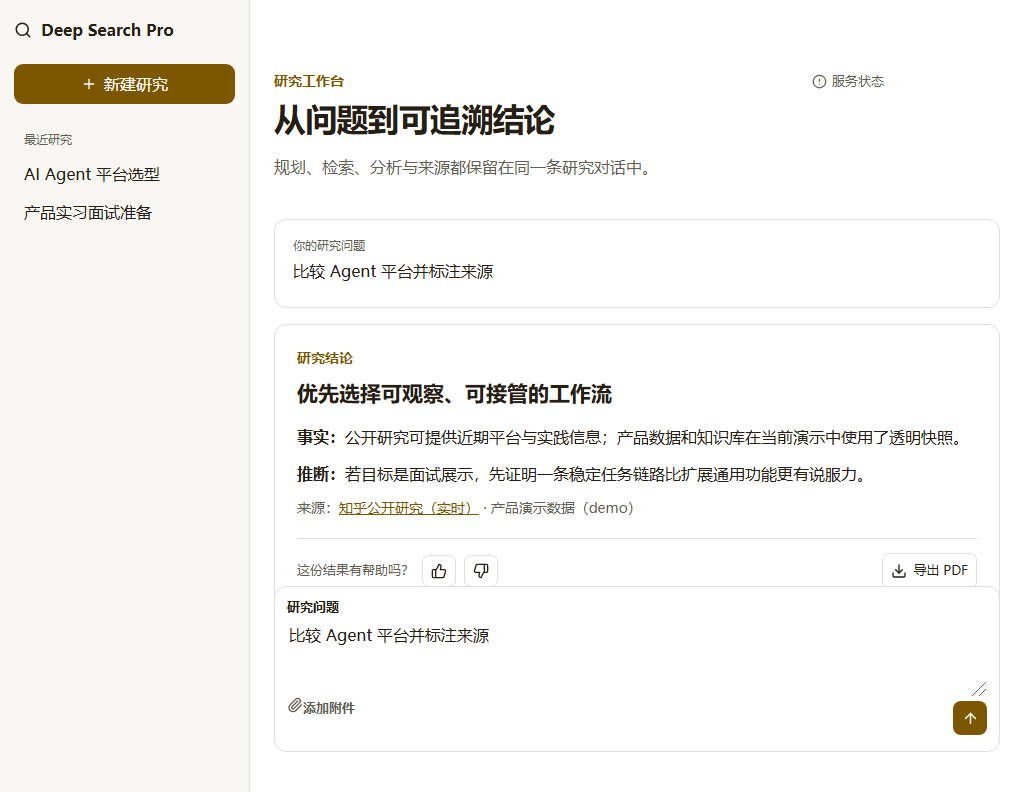
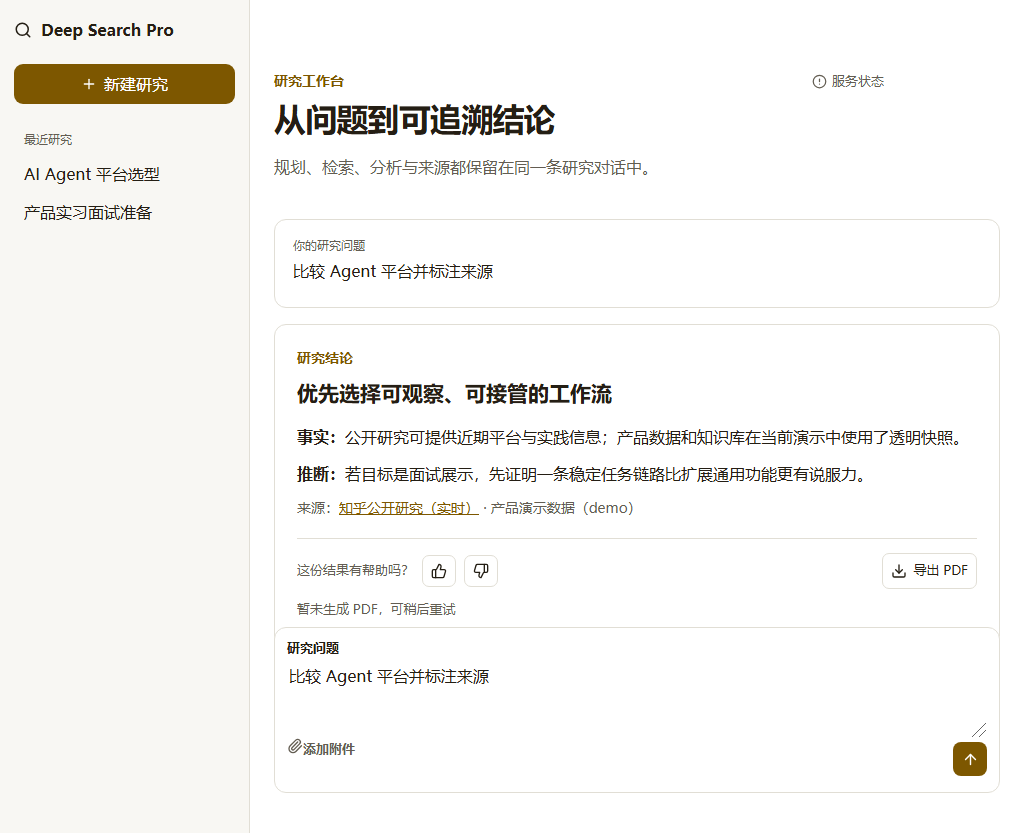
feat: close feedback export and offline e2e flows

diff --git a/frontend/src/App.tsx b/frontend/src/App.tsx
@@ -58,7 +58,7 @@ export default function App() {
     <section className="conversation" aria-labelledby="page-title">
       <header><div className="title-row"><span className="eyebrow">研究工作台</span><ServiceStatusMenu /></div><h1 id="page-title">从问题到可追溯结论</h1><p>规划、检索、分析与来源都保留在同一条研究对话中。</p></header>
       {error && <p className="inline-error" role="alert">{error}</p>}
-      {submitted ? <><article className="message user-message"><span>你的研究问题</span><p>{submitted}</p></article>{completed || taskState === "succeeded" ? <ReportMessage result={taskResult} /> : confirmed || taskState === "running" ? <AgentRunMessage onComplete={() => setCompleted(true)} /> : <PlanMessage onConfirm={confirm} onCancel={() => setSubmitted(null)} />}</> : <section className="empty-state"><FileText size={28} /><h2>开始一项复杂研究</h2><p>说明目标、限制条件和你希望得到的输出。</p><div className="starters">{STARTERS.map((starter) => <button key={starter} type="button" onClick={() => setQuery(starter)}>{starter}</button>)}</div></section>}
+      {submitted ? <><article className="message user-message"><span>你的研究问题</span><p>{submitted}</p></article>{(completed || taskState === "succeeded") && threadId ? <ReportMessage result={taskResult} threadId={threadId} /> : confirmed || taskState === "running" ? <AgentRunMessage onComplete={() => setCompleted(true)} /> : <PlanMessage onConfirm={confirm} onCancel={() => setSubmitted(null)} />}</> : <section className="empty-state"><FileText size={28} /><h2>开始一项复杂研究</h2><p>说明目标、限制条件和你希望得到的输出。</p><div className="starters">{STARTERS.map((starter) => <button key={starter} type="button" onClick={() => setQuery(starter)}>{starter}</button>)}</div></section>}
       <form className="composer" onSubmit={submit}><label htmlFor="research-query">研究问题</label><textarea id="research-query" value={query} onChange={(event) => setQuery(event.target.value)} placeholder="例如：比较适合个人研究工作流的 AI Agent 平台，并说明取舍。" rows={3} />{attachment && <span className="attachment-name">已选择：{attachment.name}</span>}<div><label className="attach-button" title="添加附件"><Paperclip size={16} /><span>添加附件</span><input type="file" accept=".txt,.md,.pdf,.docx,.csv,.xlsx" onChange={(event) => setAttachment(event.target.files?.[0] ?? null)} /></label><button type="submit" aria-label="提交研究" disabled={!query.trim()}><ArrowUp size={17} /></button></div></form>
     </section>
   </main>;

diff --git a/frontend/src/components/ReportMessage.tsx b/frontend/src/components/ReportMessage.tsx
@@ -1,10 +1,39 @@
 import { Download, ThumbsDown, ThumbsUp } from "lucide-react";
+import { useState } from "react";
+import { api } from "../api/client";
 
-export function ReportMessage({ result }: { result?: string | null }) {
+export function ReportMessage({ result, threadId }: { result?: string | null; threadId: string }) {
+  const [notice, setNotice] = useState<string | null>(null);
+
+  const sendFeedback = async (helpful: boolean) => {
+    try {
+      await api.feedback(threadId, helpful, helpful ? "结果有帮助" : "需要改进");
+      setNotice("反馈已记录");
+    } catch {
+      setNotice("反馈提交失败，请重试");
+    }
+  };
+
+  const exportPdf = async () => {
+    try {
+      const response = await api.files(threadId);
+      const pdf = response.files.find((file) => file.name.toLowerCase().endsWith(".pdf"));
+      if (!pdf) {
+        setNotice("暂未生成 PDF，可稍后重试");
+        return;
+      }
+      await api.recordExport(threadId);
+      window.location.assign(api.downloadUrl(pdf.path));
+    } catch {
+      setNotice("导出失败，请重试");
+    }
+  };
+
   return <article className="report-message" aria-label="研究报告">
     <span className="eyebrow">研究结论</span><h2>优先选择可观察、可接管的工作流</h2>
     {result ? <p className="report-content">{result}</p> : <><p><strong>事实：</strong>公开研究可提供近期平台与实践信息；产品数据和知识库在当前演示中使用了透明快照。</p><p><strong>推断：</strong>若目标是面试展示，先证明一条稳定任务链路比扩展通用功能更有说服力。</p></>}
     <p className="citations">来源：<a href="https://www.zhihu.com" target="_blank" rel="noreferrer">知乎公开研究（实时）</a> · 产品演示数据（demo）</p>
-    <footer><span>这份结果有帮助吗？</span><button type="button" aria-label="有帮助"><ThumbsUp size={16} /></button><button type="button" aria-label="需要改进"><ThumbsDown size={16} /></button><button type="button" className="export"><Download size={16} /> 导出 PDF</button></footer>
+    <footer><span>这份结果有帮助吗？</span><button type="button" aria-label="有帮助" onClick={() => sendFeedback(true)}><ThumbsUp size={16} /></button><button type="button" aria-label="需要改进" onClick={() => sendFeedback(false)}><ThumbsDown size={16} /></button><button type="button" className="export" onClick={exportPdf}><Download size={16} /> 导出 PDF</button></footer>
+    {notice && <p className="report-notice" role="status">{notice}</p>}
   </article>;
 }

diff --git a/frontend/e2e/demo-flow.spec.ts b/frontend/e2e/demo-flow.spec.ts
@@ -5,6 +5,8 @@ test("research flow reaches a sourced report", async ({ page }) => {
     const path = new URL(route.request().url()).pathname;
     if (!path.startsWith("/api/")) return route.continue();
     if (path === "/api/task") return route.fulfill({ json: { status: "waiting_confirmation", thread_id: "test-e2e" } });
+    if (path === "/api/files") return route.fulfill({ json: { files: [] } });
+    if (path.endsWith("/feedback") || path.endsWith("/export")) return route.fulfill({ json: { status: "recorded" } });
     if (path.endsWith("/confirm")) return route.fulfill({ json: { status: "running", thread_id: "test-e2e" } });
     return route.fulfill({ json: { thread_id: "test-e2e", state: "running", sequence: 1, result: null, error: null, events: [] } });
   });
@@ -17,6 +19,10 @@ test("research flow reaches a sourced report", async ({ page }) => {
   await expect(page.getByText("演示来源").first()).toBeVisible();
   await page.getByText("查看模拟报告").click();
   await expect(page.getByText("优先选择可观察、可接管的工作流")).toBeVisible();
+  await page.getByLabel("有帮助").click();
+  await expect(page.getByText("反馈已记录")).toBeVisible();
+  await page.getByText("导出 PDF").click();
+  await expect(page.getByText("暂未生成 PDF，可稍后重试")).toBeVisible();
   for (const [width, height] of [[1024, 768], [1440, 900], [1920, 1080]] as const) {
     await page.setViewportSize({ width, height });
     await page.screenshot({ path: `../docs/interview/assets/report-${width}x${height}.png`, fullPage: true });

diff --git a/frontend/src/App.test.tsx b/frontend/src/App.test.tsx
@@ -2,7 +2,15 @@ import { fireEvent, render, screen } from "@testing-library/react";
 import { expect, test, vi } from "vitest";
 import App from "./App";
 
-vi.mock("./api/client", () => ({ api: { createTask: vi.fn().mockResolvedValue({ thread_id: "test-1" }), upload: vi.fn().mockResolvedValue({ files: [] }), confirm: vi.fn().mockResolvedValue({}) } }));
+vi.mock("./api/client", () => ({ api: {
+  createTask: vi.fn().mockResolvedValue({ thread_id: "test-1" }),
+  upload: vi.fn().mockResolvedValue({ files: [] }),
+  confirm: vi.fn().mockResolvedValue({}),
+  feedback: vi.fn().mockResolvedValue({ status: "recorded" }),
+  files: vi.fn().mockResolvedValue({ files: [] }),
+  recordExport: vi.fn().mockResolvedValue({ status: "recorded" }),
+  downloadUrl: vi.fn().mockReturnValue("/api/download?path=report.pdf"),
+} }));
 
 test("renders product name and submits a research question", async () => {
   render(<App />);
@@ -17,4 +25,8 @@ test("renders product name and submits a research question", async () => {
   expect(screen.getAllByText("演示来源")).toHaveLength(2);
   fireEvent.click(screen.getByText("查看模拟报告"));
   expect(screen.getByText("优先选择可观察、可接管的工作流")).toBeInTheDocument();
+  fireEvent.click(screen.getByLabelText("有帮助"));
+  expect(await screen.findByText("反馈已记录")).toBeInTheDocument();
+  fireEvent.click(screen.getByText("导出 PDF"));
+  expect(await screen.findByText("暂未生成 PDF，可稍后重试")).toBeInTheDocument();
 });

diff --git a/frontend/src/api/client.ts b/frontend/src/api/client.ts
@@ -20,4 +20,8 @@ export const api = {
   },
   confirm: (threadId: string) => request(`/api/tasks/${threadId}/confirm`, { method: "POST" }),
   cancel: (threadId: string) => request(`/api/tasks/${threadId}/cancel`, { method: "POST" }),
+  feedback: (threadId: string, helpful: boolean, reason?: string) => request(`/api/tasks/${threadId}/feedback`, { method: "POST", headers: { "Content-Type": "application/json" }, body: JSON.stringify({ helpful, reason }) }),
+  recordExport: (threadId: string) => request(`/api/tasks/${threadId}/export`, { method: "POST" }),
+  files: (threadId: string) => request<{ files: Array<{ name: string; path: string }> }>(`/api/files?path=${encodeURIComponent(`session_${threadId}`)}`),
+  downloadUrl: (path: string) => `${API_BASE}/api/download?path=${encodeURIComponent(path)}`,
 };

diff --git a/frontend/src/styles.css b/frontend/src/styles.css
@@ -9,3 +9,4 @@
 .inline-error { margin-top:20px; border:1px solid oklch(0.72 0.12 25); border-radius:9px; background:oklch(0.97 0.025 25); color:oklch(0.38 0.14 25); padding:11px 13px; }
 .attach-button { min-height:36px; display:flex; align-items:center; gap:6px; cursor:pointer; color:var(--muted); }.attach-button input { position:absolute; width:1px; height:1px; overflow:hidden; clip:rect(0 0 0 0); }.attachment-name { display:block; margin:4px 0 8px; color:var(--muted); font-size:12px; }
 .report-content { white-space:pre-wrap; overflow-wrap:anywhere; }
+.report-notice { color:var(--muted); font-size:13px; margin:8px 0 0; }

diff --git a/api/server.py b/api/server.py
@@ -10,6 +10,9 @@ from typing import List
 import shutil
 import json
 from datetime import datetime, timezone
+from contextlib import asynccontextmanager
+
+from analytics.events import ProductEvent, append_event
 
 # Add project root to sys.path
 current_dir = Path(__file__).resolve().parent
@@ -23,7 +26,18 @@ from api.health import get_service_registry
 from api.settings import get_settings
 from api.task_manager import TaskState, task_manager
 
-app = FastAPI(title="DeepAgents API")
+async def _broadcast_task_event(event: dict) -> None:
+    await manager.send_to_thread(event, event["thread_id"])
+
+
+@asynccontextmanager
+async def lifespan(_: FastAPI):
+    manager.set_loop(asyncio.get_running_loop())
+    task_manager.subscribe(_broadcast_task_event)
+    yield
+
+
+app = FastAPI(title="DeepAgents API", lifespan=lifespan)
 
 
 @app.get("/api/health")
@@ -56,18 +70,6 @@ class FeedbackRequest(BaseModel):
     helpful: bool
     reason: str | None = None
 
-@app.on_event("startup")
-async def startup_event():
-    """
-    服务启动时，获取当前运行的事件循环，并绑定到 WebSocket 管理器。
-    确保后台线程能通过 run_coroutine_threadsafe 准确投递消息。
-    """
-    loop = asyncio.get_running_loop()
-    manager.set_loop(loop)
-    task_manager.subscribe(lambda event: manager.send_to_thread(event, event["thread_id"]))
-    print(f"[Server] WebSocket Manager bound to loop: {id(loop)}")
-
-
 @app.post("/api/task")
 async def run_task(request: TaskRequest):
     # 1. [ID 初始化]
@@ -78,6 +80,8 @@ async def run_task(request: TaskRequest):
         await task_manager.transition(thread_id, TaskState.WAITING_CONFIRMATION, {"plan": ["确认研究目标", "检索并汇总来源"]})
     except ValueError as error:
         raise HTTPException(status_code=409, detail=str(error)) from error
+
+    _record_product_event("task_submitted", thread_id)
 
     # 3. [立即响应]
     return {"status": "waiting_confirmation", "thread_id": thread_id}
@@ -100,6 +104,7 @@ async def confirm_task(thread_id: str):
     except ValueError as error:
         raise HTTPException(status_code=409, detail=str(error)) from error
     task.background_task = asyncio.create_task(run_deep_agent(task.query, thread_id))
+    _record_product_event("plan_confirmed", thread_id)
     return {"status": task.state, "thread_id": thread_id}
 
 
@@ -129,7 +134,25 @@ async def submit_feedback(thread_id: str, feedback: FeedbackRequest):
     feedback_path = output_dir / "feedback.jsonl"
     with feedback_path.open("a", encoding="utf-8") as file:
         file.write(json.dumps(record, ensure_ascii=False) + "\n")
+    _record_product_event("feedback_submitted", thread_id)
     return {"status": "recorded"}
+
+
+@app.post("/api/tasks/{thread_id}/export")
+async def record_export(thread_id: str):
+    try:
+        await task_manager.snapshot(thread_id)
+    except KeyError:
+        raise HTTPException(status_code=404, detail="Task not found.")
+    _record_product_event("report_exported", thread_id)
+    return {"status": "recorded"}
+
+
+def _record_product_event(name: str, thread_id: str) -> None:
+    append_event(
+        output_dir / "analytics.jsonl",
+        ProductEvent(name=name, task_id=thread_id, timestamp=datetime.now(timezone.utc)),
+    )
 
 
 @app.post("/api/upload")

diff --git a/test/test_backend_e2e.py b/test/test_backend_e2e.py
@@ -1,0 +1,50 @@
+import asyncio
+from pathlib import Path
+
+from fastapi.testclient import TestClient
+
+import api.server as server
+from api.task_manager import TaskState, task_manager
+
+
+def test_offline_task_websocket_feedback_files_and_export(monkeypatch, tmp_path):
+    thread_id = "test-backend-e2e"
+    monkeypatch.setattr(server, "output_dir", tmp_path)
+
+    async def fake_agent(query: str, session_id: str) -> None:
+        assert query == "compare agent platforms"
+        session = server.output_dir / f"session_{session_id}"
+        session.mkdir(parents=True, exist_ok=True)
+        (session / "report.pdf").write_bytes(b"%PDF-1.4\n% offline fixture")
+        await task_manager.transition(session_id, TaskState.SUCCEEDED, {"result": "Sourced offline result (demo)."})
+
+    monkeypatch.setattr(server, "run_deep_agent", fake_agent)
+
+    with TestClient(server.app) as client:
+        created = client.post("/api/task", json={"query": "compare agent platforms", "thread_id": thread_id})
+        assert created.status_code == 200
+
+        with client.websocket_connect(f"/ws/{thread_id}") as websocket:
+            websocket.send_text("ping")
+            assert websocket.receive_json()["type"] == "pong"
+
+        confirmed = client.post(f"/api/tasks/{thread_id}/confirm")
+        assert confirmed.status_code == 200
+
+        for _ in range(20):
+            snapshot = client.get(f"/api/tasks/{thread_id}").json()
+            if snapshot["state"] == "succeeded":
+                break
+            asyncio.run(asyncio.sleep(0.01))
+        assert snapshot["result"] == "Sourced offline result (demo)."
+        assert [event["sequence"] for event in snapshot["events"]] == sorted(event["sequence"] for event in snapshot["events"])
+
+        files = client.get("/api/files", params={"path": f"session_{thread_id}"}).json()["files"]
+        assert files[0]["path"] == f"session_{thread_id}/report.pdf"
+        assert not Path(files[0]["path"]).is_absolute()
+
+        assert client.post(f"/api/tasks/{thread_id}/feedback", json={"helpful": True}).json()["status"] == "recorded"
+        assert client.post(f"/api/tasks/{thread_id}/export").json()["status"] == "recorded"
+        downloaded = client.get("/api/download", params={"path": files[0]["path"]})
+        assert downloaded.status_code == 200
+        assert downloaded.content.startswith(b"%PDF")

diff --git a/analytics/events.py b/analytics/events.py
@@ -1,12 +1,18 @@
-"""Privacy-safe product event contracts."""
+"""Privacy-safe product event contracts and local JSONL persistence."""
 
+import json
 from datetime import datetime
+from pathlib import Path
 from typing import Literal
 
 from pydantic import BaseModel, field_validator
 
 
-EventName = Literal["task_submitted", "plan_confirmed", "task_completed", "task_failed", "feedback_submitted", "report_exported"]
+EventName = Literal[
+    "task_submitted", "plan_confirmed", "task_completed", "task_failed",
+    "feedback_submitted", "report_exported", "source_clicked",
+    "follow_up_submitted", "task_retried",
+]
 
 
 class ProductEvent(BaseModel):
@@ -21,3 +27,10 @@ class ProductEvent(BaseModel):
         if "/" in value or "\\" in value or len(value) > 100:
             raise ValueError("task_id must not contain content or paths")
         return value
+
+
+def append_event(path: Path, event: ProductEvent) -> None:
+    """Append contract-approved metadata without prompt or file content."""
+    path.parent.mkdir(parents=True, exist_ok=True)
+    with path.open("a", encoding="utf-8") as file:
+        file.write(event.model_dump_json() + "\n")

diff --git a/test/test_analytics.py b/test/test_analytics.py
@@ -1,9 +1,19 @@
 from datetime import datetime, timezone
 
 from analytics.events import ProductEvent
+from analytics.events import append_event
 from analytics.report import funnel
 
 
 def test_funnel_counts_privacy_safe_events():
     events = [ProductEvent(name="task_submitted", task_id="task-1", timestamp=datetime.now(timezone.utc)), ProductEvent(name="task_completed", task_id="task-1", timestamp=datetime.now(timezone.utc), source_modes=["live", "demo"])]
     assert funnel(events)["task_completed"] == 1
+
+
+def test_event_persistence_contains_metadata_only(tmp_path):
+    path = tmp_path / "events.jsonl"
+    append_event(path, ProductEvent(name="feedback_submitted", task_id="task-2", timestamp=datetime.now(timezone.utc)))
+    content = path.read_text(encoding="utf-8")
+    assert "feedback_submitted" in content
+    assert "prompt" not in content
+    assert "file_content" not in content
